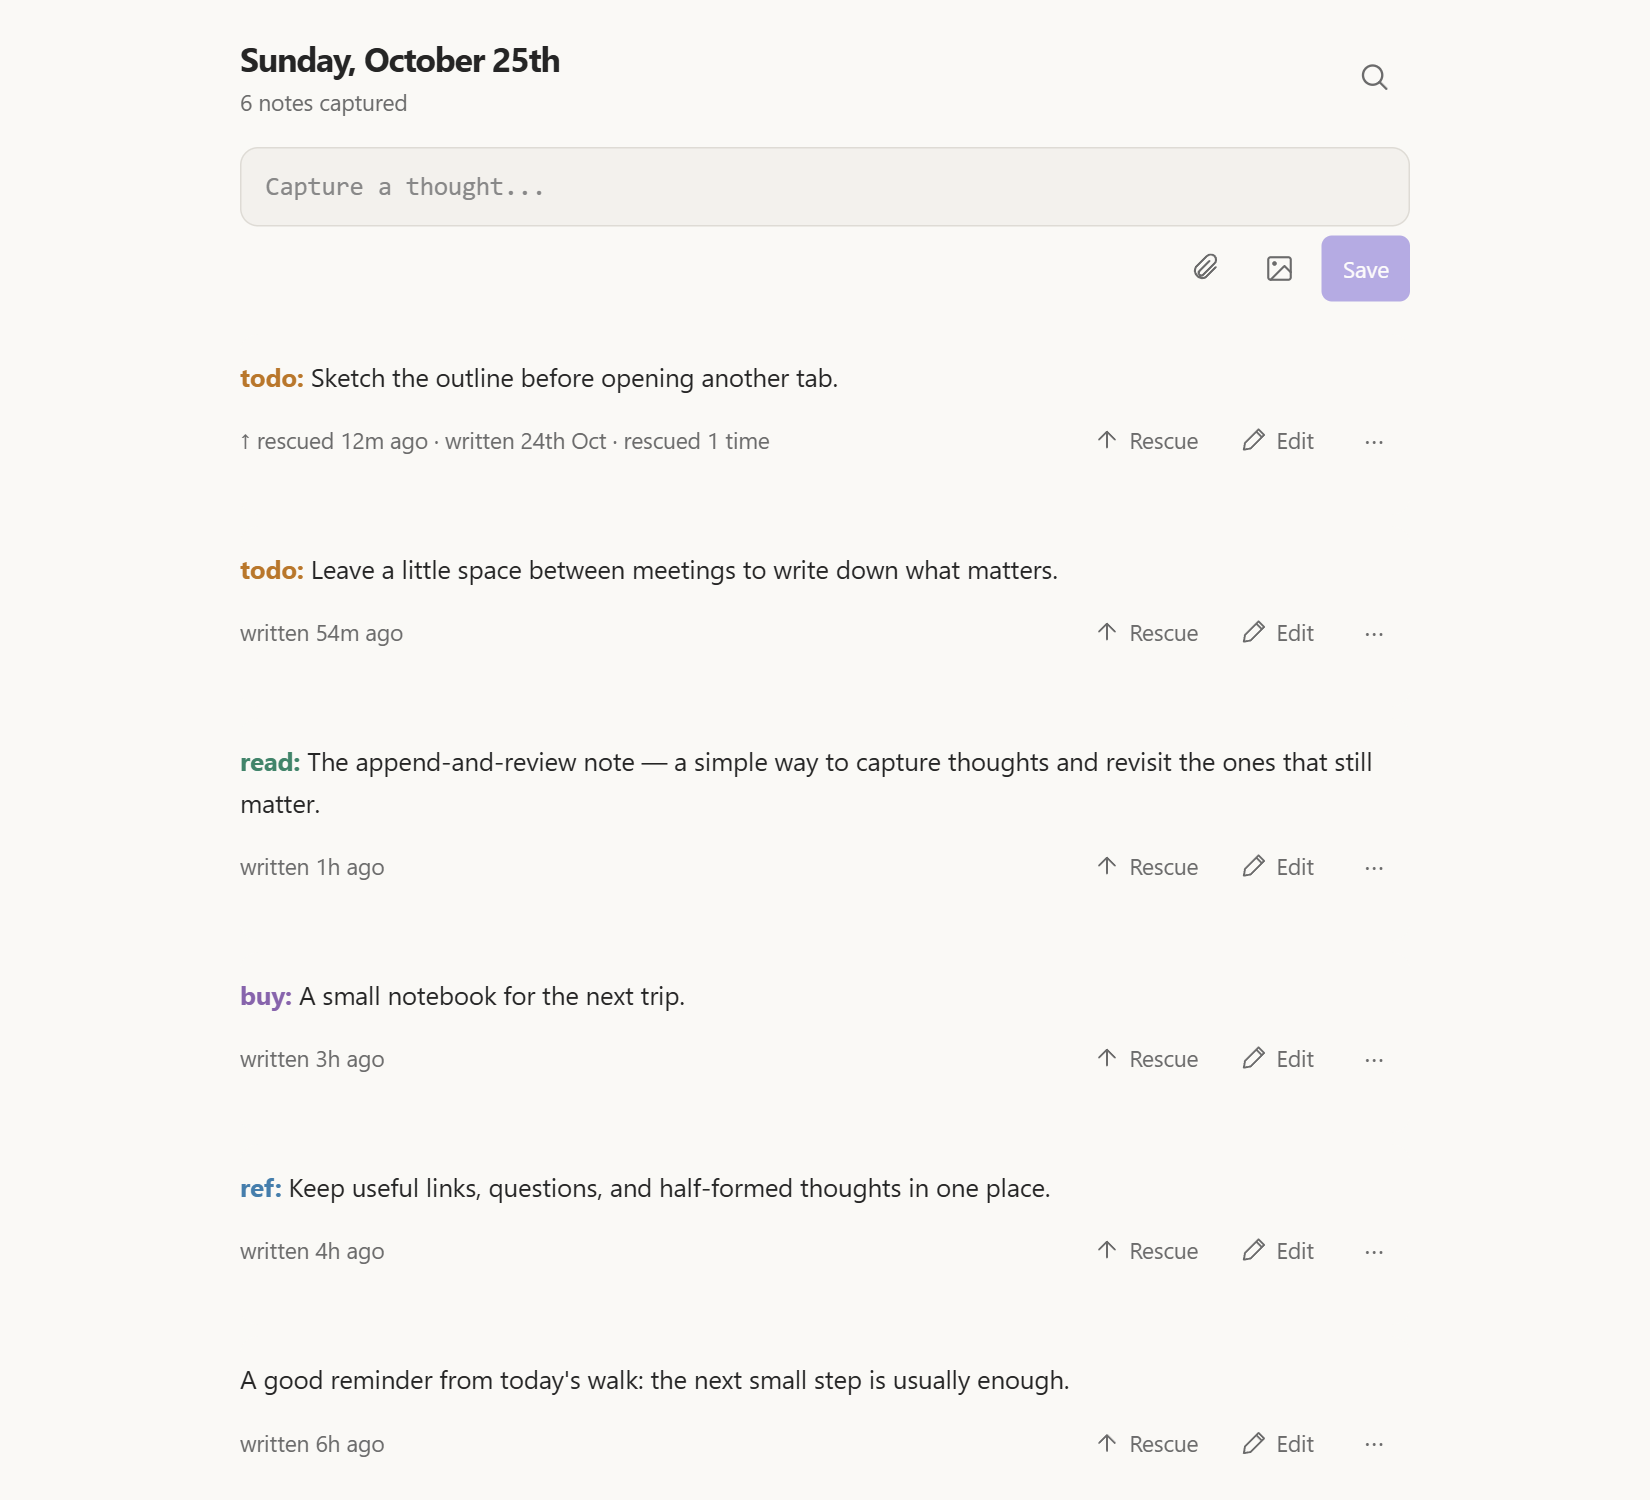
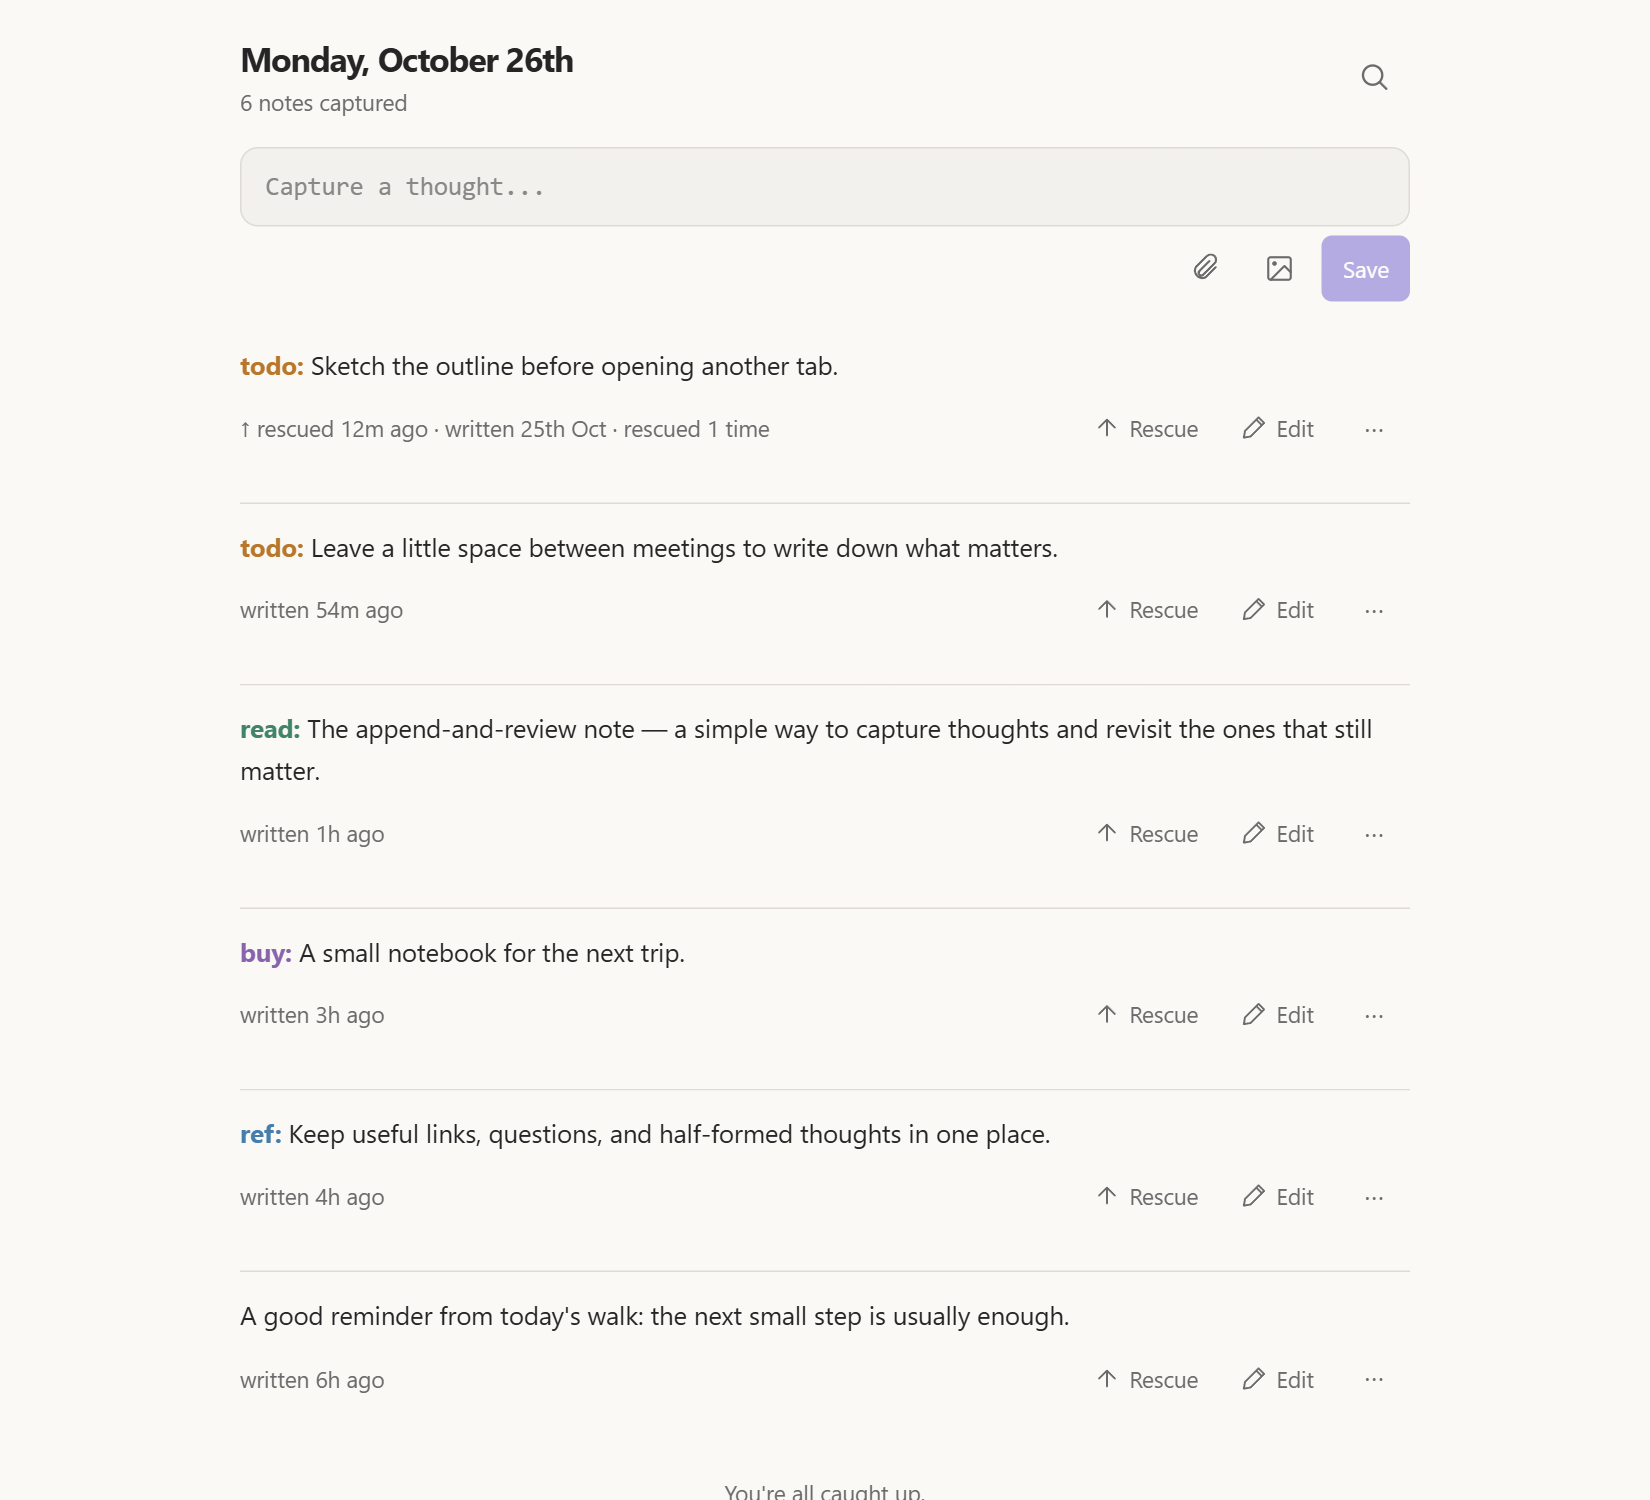
Release 1.1.4 with full-height stream and note dividers

diff --git a/styles.css b/styles.css
@@ -1,5 +1,16 @@
-.workspace-leaf-content[data-type="karpathy-stream"] .view-content {
+.workspace-leaf-content[data-type="karpathy-stream"] {
+  --view-header-height: 0px;
+}
+
+.workspace-leaf-content[data-type="karpathy-stream"] > .view-header {
+  display: none;
+}
+
+.workspace-leaf-content[data-type="karpathy-stream"] > .view-content {
   padding: 0;
+  flex: 1;
+  min-height: 0;
+  height: 100%;
 }
 
 .karpathy-view,
@@ -152,7 +163,8 @@
 .karpathy-search input { width: 100%; border-radius: 8px; box-shadow: none; }
 .karpathy-scroller { flex: 1; min-height: 0; overflow-y: auto; overscroll-behavior: contain; overflow-anchor: none; }
 .karpathy-stream { padding-bottom: max(32px, env(safe-area-inset-bottom)); }
-.karpathy-entry { position: relative; overflow: hidden; border-radius: 12px; margin-block: 8px; overflow-wrap: anywhere; }
+.karpathy-entry { position: relative; overflow: hidden; margin: 0; overflow-wrap: anywhere; }
+.karpathy-entry + .karpathy-entry { border-top: 1px solid var(--background-modifier-border); }
 .karpathy-entry-surface { position: relative; display: flex; flex-direction: column; padding-block: 14px 18px; background: var(--background-primary); }
 .karpathy-entry-content { order: 1; }
 .karpathy-entry-meta { order: 3; margin-top: 4px; flex-wrap: wrap; }
